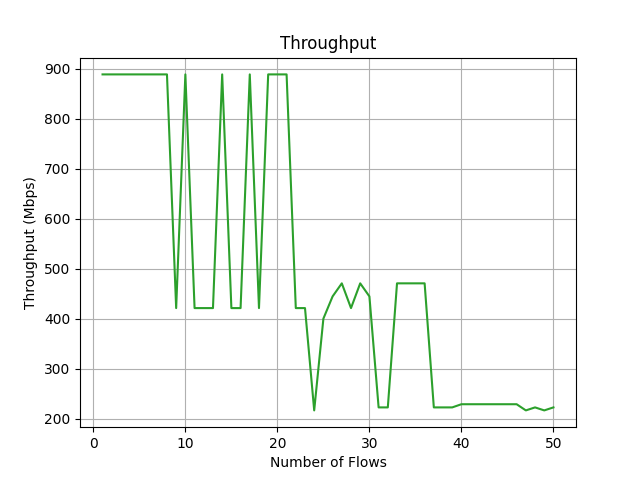
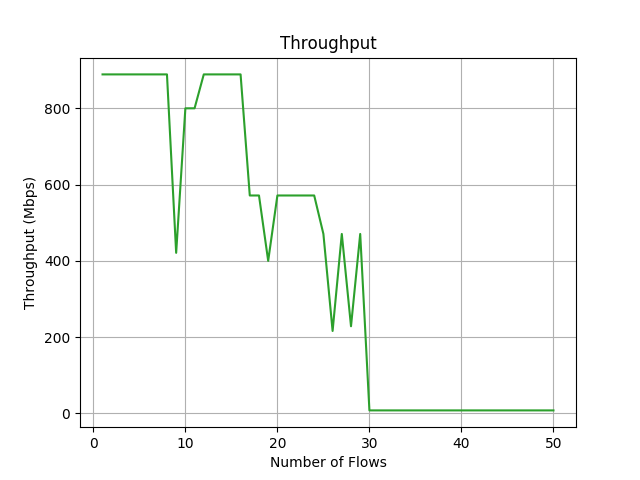
Tested with 9 senders

diff --git a/scratch/scratch-simulator.cc b/scratch/scratch-simulator.cc
@@ -95,7 +95,8 @@ int main (int argc, char *argv[])
   
   /* Need to decide whether we want numFlows servers or 9 servers*/
   NodeContainer senders;
-  senders.Create(numFlows);
+  size_t numSenders = 9;
+  senders.Create(numSenders);
   
   PointToPointHelper link;
   link.SetDeviceAttribute ("DataRate", StringValue ("1Gbps"));
@@ -124,7 +125,7 @@ int main (int argc, char *argv[])
   std::vector<NetDeviceContainer> sendersToIntermediateSwitches;
   sendersToIntermediateSwitches.reserve (numFlows);
 
-  for (std::size_t i = 0; i < numFlows; i++)
+  for (std::size_t i = 0; i < numSenders; i++)
     {
       Ptr<Node> sender = senders.Get (i);
       sendersToIntermediateSwitches.push_back (
@@ -179,7 +180,7 @@ int main (int argc, char *argv[])
     {
       tchRed.Install (intermediateSwitchesToS1[i]);
     }
-  for (std::size_t i = 0; i < numFlows; i++)
+  for (std::size_t i = 0; i < numSenders; i++)
     {
       tchRed.Install (sendersToIntermediateSwitches[i]);
     }
@@ -199,7 +200,7 @@ int main (int argc, char *argv[])
       ipIntermediatesToS1.push_back (address.Assign (intermediateSwitchesToS1[i]));
     }
 
-  for (std::size_t i = 0; i < numFlows; i++)
+  for (std::size_t i = 0; i < numSenders; i++)
     {
       address.NewNetwork ();
       ipSendersToIntermediates.push_back (address.Assign (sendersToIntermediateSwitches[i]));
@@ -238,7 +239,7 @@ int main (int argc, char *argv[])
     uint64_t maxBytes = i < ONE_MB % numFlows ? ONE_MB / numFlows + 1 : ONE_MB / numFlows;
     ftp.SetAttribute ("MaxBytes", UintegerValue (maxBytes));
     bulkSenders.push_back (ftp);
-    ApplicationContainer senderApp = ftp.Install (senders.Get (i));
+    ApplicationContainer senderApp = ftp.Install (senders.Get (i % numSenders));
     senderApp.Start (startTime);
     senderApp.Stop (stopTime);
     senderApps.push_back (senderApp);
